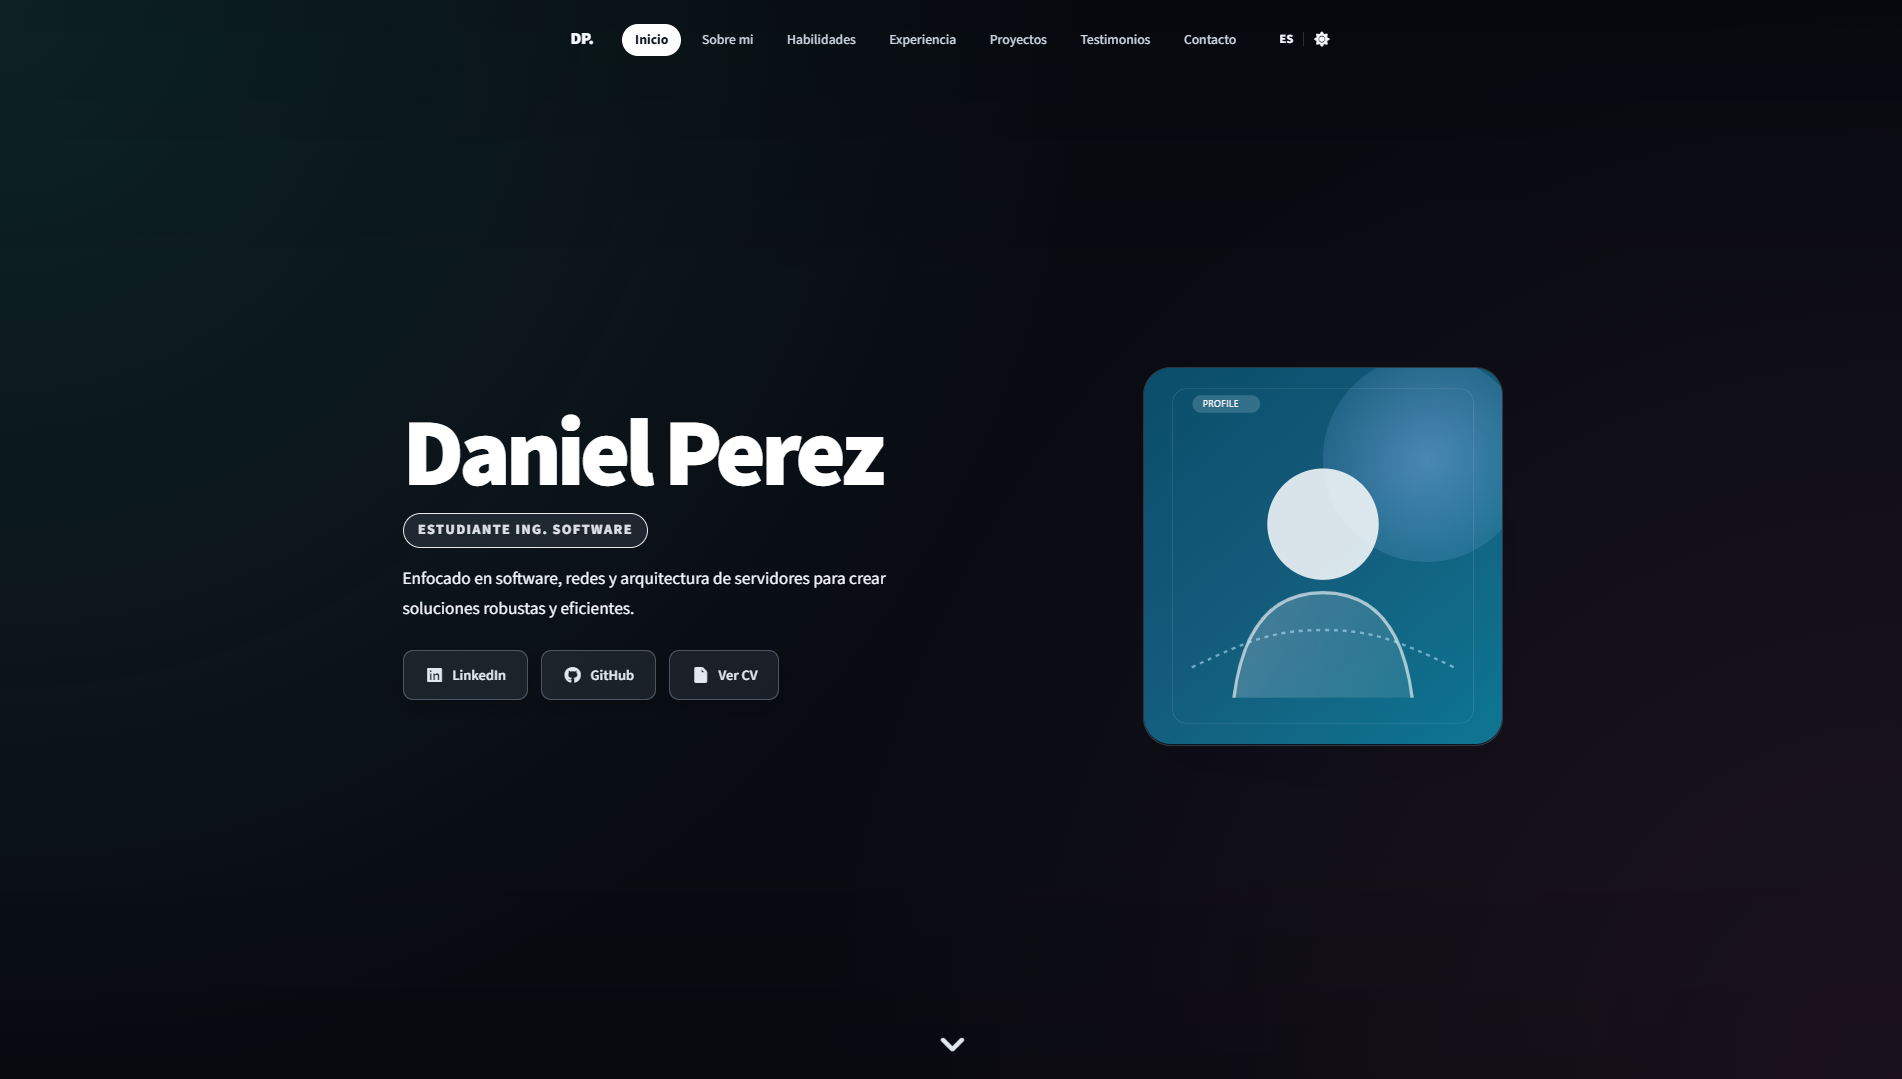
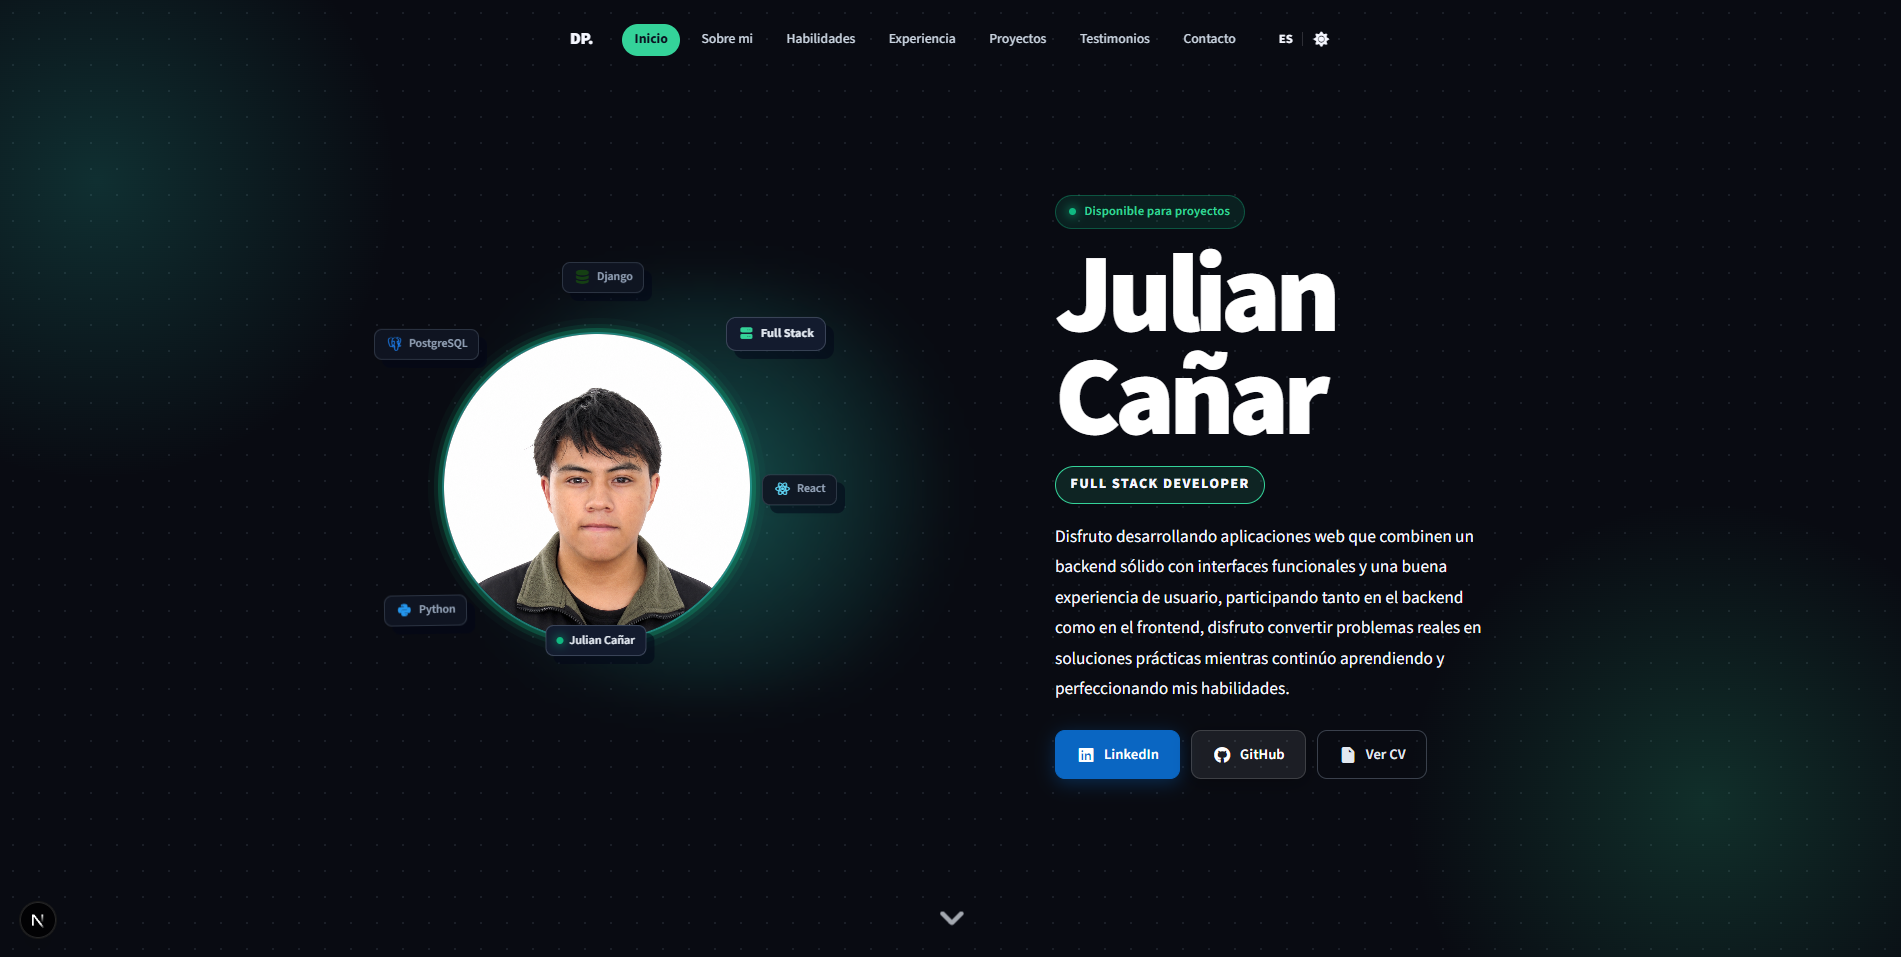
Skills and history

diff --git a/lib/dictionaries.ts b/lib/dictionaries.ts
@@ -231,44 +231,50 @@ export const dictionaries: Record<Locale, Dictionary> = {
     experience: {
       title: 'Experiencia',
       kicker: 'Trayectoria',
-      intro: 'La etapa actual de mi formación académica.',
+      intro: 'Experiencias que han fortalecido mis habilidades en desarrollo web, trabajo en equipo y resolución de problemas.',
       items: [
         {
-          date: '2024 - 2028',
-          role: 'Estudiante de Ingeniería de Software',
-          company: 'Universidad Cooperativa De Colombia',
-          desc: 'Adquiriendo fundamentos en algoritmia, bases de datos y arquitectura, complementando la teoría con interés propio por la infraestructura y redes.'
+          date: 'Nov. 2025 – Abr. 2026',
+          role: 'Desarrollador Full Stack',
+          company: 'IPSUS S.A.S.',
+          desc: 'Participé en el desarrollo de una plataforma web para la gestión administrativa de IPSUS utilizando Django, Angular y PostgreSQL. Implementé funcionalidades backend y frontend, autenticación con JWT, estadisticas y mejoras en la experiencia de usuario.'
+        },
+        {
+          date:'2025 – 2026',
+          role: 'Monitor Académico',
+          company: 'Universidad de Nariño',
+          desc: 'Participé como monitor académico en el desarrollo de un sistema web para la gestión de préstamos e inventario de equipos tecnológicos en la Universidad de Nariño utilizando Django REST Framework, Angular y PostgreSQL bajo metodología Scrum.'
         }
       ]
     },
     projects: {
       title: 'Proyectos',
-      kicker: 'Mi codigo',
-      intro: 'Una selección de trabajos en los que he aplicado mis conocimientos.',
+      kicker: 'PORTAFOLIO',
+      intro: 'Estos son algunos de los proyectos que mejor representan mi experiencia desarrollando',
       items: [
         {
-          title: 'UniShop',
-          desc: 'Plataforma de comercio electrónico diseñada para la comunidad universitaria, facilitando la compra y venta de productos entre estudiantes.',
-          repo: 'https://github.com/Whatfck/UniShop',
-          view: 'https://uni-shop-frontend.vercel.app/',
-          image_url: '/media/projects/UniShop.png',
-          image_alt: 'Vista previa del proyecto UniShop'
+          title: 'Sistema de Préstamos e Inventario',
+          desc: 'Aplicación web desarrollada para la Universidad de Nariño que permite gestionar el préstamo de equipos, controlar el inventario, administrar usuarios y generar constancias de forma automática.',
+          repo: 'https://github.com/andreaeraso/inventario_septiembre',
+          view: 'https://uni-shop-frontend.vercel.app/', //ACTUALIZAR
+          image_url: '/media/projects/Prestamos-Udenar.png',
+          image_alt: 'Vista previa del proyecto Sistema de Préstamos e Inventario'
         },
         {
-          title: 'Reproductor Web',
-          desc: 'Aplicación de reproducción de audio moderna con interfaz intuitiva, soporte para listas de reproducción y controles avanzados.',
-          repo: 'https://github.com/Whatfck/reproductor-web',
-          view: 'https://reproductor-web-omega.vercel.app/',
-          image_url: '/media/projects/reproductor-web.png',
-          image_alt: 'Vista previa del proyecto Reproductor Web'
+          title: 'Plataforma IPSUS',
+          desc: 'Desarrollo de una plataforma web para IPSUS enfocada en la gestión de información y procesos internos, implementando autenticación, administración de datos y funcionalidades adaptadas a las necesidades del cliente.',
+          repo: 'https://gitlab.com/digitalroot-group/ipsus-frontend',
+          view: 'https://reproductor-web-omega.vercel.app/', // ACTUALIZAR
+          image_url: '/media/projects/Ipsus.png',
+          image_alt: 'Vista previa del proyecto ipsus'
         },
         {
           title: 'Portafolio',
           desc: 'Portafolio personal multilenguaje construido con Next.js, diseñado para mostrar perfil profesional, experiencia, habilidades y proyectos.',
-          repo: 'https://github.com/Whatfck/portafolio',
-          view: 'https://portafolio-daniel-perez.vercel.app/',
+          repo: 'https://github.com/julidiviu/portafolio',
+          view: 'https://portafolio-daniel-perez.vercel.app/', // ACTUALIZAR
           image_url: '/media/projects/portafolio.png',
-          image_alt: 'Vista previa del proyecto Portafolio'
+          image_alt: 'Vista previa del proyecto Portafolio' 
         }
       ],
       repo_label: 'Repo',
@@ -338,8 +344,8 @@ export const dictionaries: Record<Locale, Dictionary> = {
     hero: {
       eyebrow: '',
       name: 'Julian Cañar',
-      role: 'Software Engineering Student',
-      copy: 'I work with software, networking, and servers, driven by a desire to understand how things work and to push systems to the point where they truly make sense.',
+      role: 'Full Stack Developer',
+      copy: 'I enjoy developing web applications that combine a solid backend with functional interfaces and a great user experience. I like working on both backend and frontend, turning real-world problems into practical solutions while continuously learning and improving my skills.',
       btn_cv: 'View CV',
       photo_url: '/media/hero/julian-canar.jpg',
       photo_alt: 'Portrait of Julian Cañar',
@@ -351,102 +357,149 @@ export const dictionaries: Record<Locale, Dictionary> = {
     },
     about: {
       title: 'About Me',
-      kicker: 'My Story',
+      kicker: 'Who am I?',
       location_title: 'Location',
-      location_value: 'Colombia · UTC-5',
-      location_note: 'Local reference time for coordination and remote work.',
-      lead: 'HELLO!!! I\'m Julian Cañar.',
-      p1: 'My childhood curiosity about how things work led me into the world of computing, going from building servers as a hobby to formalizing my passion by studying Software Engineering.',
-      p2: 'I\'m passionate about the "behind the scenes" of technology: the infrastructure, the logic, and the architecture. I enjoy breaking down complex problems to build efficient, scalable, and stable solutions, making sure that everything, from the ground up, simply works.',
+      location_value: 'Pasto · Colombia',
+      location_note: 'Available for remote, hybrid, or on-site work.',
+    
+      lead: "HELLO! I'm Julian Cañar, a Systems Engineer.",
+    
+      p1: "I graduated from the University of Nariño and enjoy developing technological solutions that solve real-world problems. During my academic journey, I participated in both academic and professional projects that strengthened my knowledge of software development, databases, and web applications.",
+    
+      p2: "My main interest is backend development, although I also have experience with frontend technologies and databases. I have worked with technologies such as Java, Python, Django, Angular, PostgreSQL, Docker, and Git. I especially enjoy designing organized, scalable, and maintainable applications. I am always eager to learn new technologies and take on new challenges.",
+    
       languages_title: 'Languages',
+    
       languages: [
         { name: 'Spanish', level: '100%', label: 'Native' },
-        { name: 'English', level: '50%', label: 'Intermediate' }
+        { name: 'English', level: '70%', label: 'B2' }
       ],
-      highlight_title: 'Current Goal',
-      highlight_text: 'I explore various areas of development due to my academic background, but my natural focus is on backend, infrastructure, and networks. I am interested in building efficient, well-structured, and reliable systems over visual elements.',
-      pill1_title: 'Style',
-      pill1_text: 'Pragmatic and results-oriented, with a focus on optimization. I seek maximum performance with the least amount of resources, constantly refining until real quality is achieved.',
+    
+      highlight_title: 'Professional Goal',
+    
+      highlight_text: 'I am looking for an opportunity where I can continue growing as a software developer, contribute to meaningful projects, and learn from experienced teams while bringing commitment, responsibility, and a constant desire to improve.',
+    
+      pill1_title: 'My Working Style',
+    
+      pill1_text: 'I enjoy building software in an organized way, writing clean code, and prioritizing maintainable solutions. I like analyzing problems before coding and finding the most efficient way to solve them.',
+    
       pill2_title: '',
       pill2_text: '',
-      pill3_title: 'Off-screen',
-      pill3_text: 'I enjoy video games, music (guitar), cooking, and hanging out with friends. I also like disassembling, repairing, and optimizing objects as part of my learning process.',
+    
+      pill3_title: 'Beyond Coding',
+    
+      pill3_text: 'In my free time I enjoy video games, playing guitar, listening to music, watching movies, creating multimedia content, and spending time with family and friends. I also enjoy exploring new tools that help me improve my productivity and continue learning.',
     },
+    
     skills: {
       title: 'Skills',
-      kicker: 'Tools',
-      focus: 'Profile: Technical inclination towards backend and infrastructure, complemented by essential frontend development skills.',
-      intro: 'Technologies and tools I use on a daily basis.',
+      kicker: 'TECHNOLOGIES',
+    
+      focus: 'These are the main technologies and tools I use to develop modern, scalable, and maintainable web applications.',
+    
+      intro: 'Continuously learning and improving my skills.',
+    
       categories: [
         {
-          title: 'Systems & Infrastructure',
-          items: ['Linux (Fedora/Ubuntu Server)', 'Docker', 'Kubernetes', 'AWS', 'Terraform', 'CI/CD (GitHub Actions)', 'Prometheus']
+          title: 'Backend',
+          items: ['Python', 'Django', 'Java', 'Node.js']
         },
         {
-          title: 'Networking',
-          items: ['OpenWrt', 'Reverse Proxy (Nginx)', 'Cloudflare', 'DNS (Pi-hole)', 'VPN', 'Nmap']
-        },
-        {
-          title: 'Backend Languages',
-          items: ['Java', 'Python (FastAPI)', 'PHP', 'Node.js / Express']
-        },
-        {
-          title: 'Web Development',
-          items: ['React / Next.js', 'Tailwind CSS', 'JavaScript / TypeScript', 'Django', 'REST APIs']
+          title: 'Frontend',
+          items: ['React', 'Next.js', 'Angular', 'TypeScript']
         },
         {
           title: 'Databases',
-          items: ['PostgreSQL', 'SQLite']
+          items: ['PostgreSQL', 'MySQL', 'SQLite']
         },
         {
-          title: 'Tools & Scripting',
-          items: ['Git / GitHub', 'Bash/Shell', 'Lua', 'Postman']
+          title: 'Tools',
+          items: ['Git', 'Docker', 'Postman']
+        },
+        {
+          title: 'Operating Systems',
+          items: ['Ubuntu', 'Fedora', 'Windows']
+        },
+        {
+          title: 'Methodologies & Architecture',
+          items: ['Scrum']
         }
       ]
     },
+    
     experience: {
       title: 'Experience',
-      kicker: 'Path',
-      intro: 'The current stage of my academic training.',
+      kicker: 'Career',
+      intro: 'Experiences that have strengthened my web development, teamwork, and problem-solving skills.',
+    
       items: [
         {
-          date: '2024 - 2028',
-          role: 'Software Engineering Student',
-          company: 'Universidad Cooperativa De Colombia',
-          desc: 'Acquiring solid fundamentals in algorithms, databases, and architecture, supplementing theory with a self-driven interest in infrastructure and networks.'
+          date: 'Nov. 2025 – Apr. 2026',
+          role: 'Full Stack Developer',
+          company: 'IPSUS S.A.S.',
+          desc: 'Participated in the development of a web platform for IPSUS using Django, Angular, and PostgreSQL. Implemented backend and frontend features, JWT authentication, statistics modules, and user experience improvements.'
+        },
+    
+        {
+          date: '2025 – 2026',
+          role: 'Teaching Assistant',
+          company: 'University of Nariño',
+    
+          desc: 'Worked as a teaching assistant in the development of a web-based equipment loan and inventory management system using Django REST Framework, Angular, PostgreSQL, and the Scrum methodology.'
         }
       ]
     },
+    
     projects: {
       title: 'Projects',
-      kicker: 'My code',
-      intro: 'A selection of works where I have applied my knowledge.',
+      kicker: 'PORTFOLIO',
+    
+      intro: 'These are some of the projects that best represent my experience developing software solutions and modern web applications.',
+    
       items: [
         {
-          title: 'UniShop',
-          desc: 'E-commerce platform designed for the university community, facilitating the purchase and sale of products among students.',
-          repo: 'https://github.com/Whatfck/UniShop',
+          title: 'Loan & Inventory Management System',
+    
+          desc: 'A web application developed for the University of Nariño to manage equipment loans, inventory, users, and automatically generate loan certificates.',
+    
+          repo: 'https://github.com/andreaeraso/inventario_septiembre',
+    
           view: 'https://uni-shop-frontend.vercel.app/',
-          image_url: '/media/projects/UniShop.png',
-          image_alt: 'Project preview for UniShop'
+    
+          image_url: '/media/projects/Prestamos-Udenar.png',
+    
+          image_alt: 'Loan & Inventory Management System'
         },
+    
         {
-          title: 'Web Player',
-          desc: 'Modern audio playback application with an intuitive interface, playlist support, and advanced controls.',
-          repo: 'https://github.com/Whatfck/reproductor-web',
+          title: 'IPSUS Platform',
+    
+          desc: 'Development of a web platform for IPSUS focused on managing internal information and business processes, including authentication, data management, and customized functionalities based on the client’s needs.',
+    
+          repo: 'https://gitlab.com/digitalroot-group/ipsus-frontend',
+    
           view: 'https://reproductor-web-omega.vercel.app/',
-          image_url: '/media/projects/reproductor-web.png',
-          image_alt: 'Project preview for Web Player'
+    
+          image_url: '/media/projects/Ipsus.png',
+    
+          image_alt: 'IPSUS Platform'
         },
+    
         {
-          title: 'Portfolio',
-          desc: 'Multilingual personal portfolio built with Next.js to showcase professional profile, experience, skills, and projects.',
-          repo: 'https://github.com/Whatfck/portafolio',
+          title: 'Personal Portfolio',
+    
+          desc: 'A multilingual personal portfolio built with Next.js to showcase my professional profile, experience, technical skills, and projects through a modern, responsive interface.',
+    
+          repo: 'https://github.com/julidiviu/portafolio',
+    
           view: 'https://portafolio-daniel-perez.vercel.app/',
+    
           image_url: '/media/projects/portafolio.png',
-          image_alt: 'Project preview for Portfolio'
+    
+          image_alt: 'Personal Portfolio'
         }
       ],
+    
       repo_label: 'Repo',
       view_label: 'View',
     },

diff --git a/components/Navbar.tsx b/components/Navbar.tsx
@@ -255,7 +255,7 @@ export default function Navbar({ lang }: { lang: Locale }) {
         <nav className="navbar" aria-label="Navegacion principal">
           
           <div className="nav-brand">
-            <strong>DP.</strong>
+            <strong>JC.</strong>
           </div>
 
           <ul className="navbar-links" ref={navRef}>
